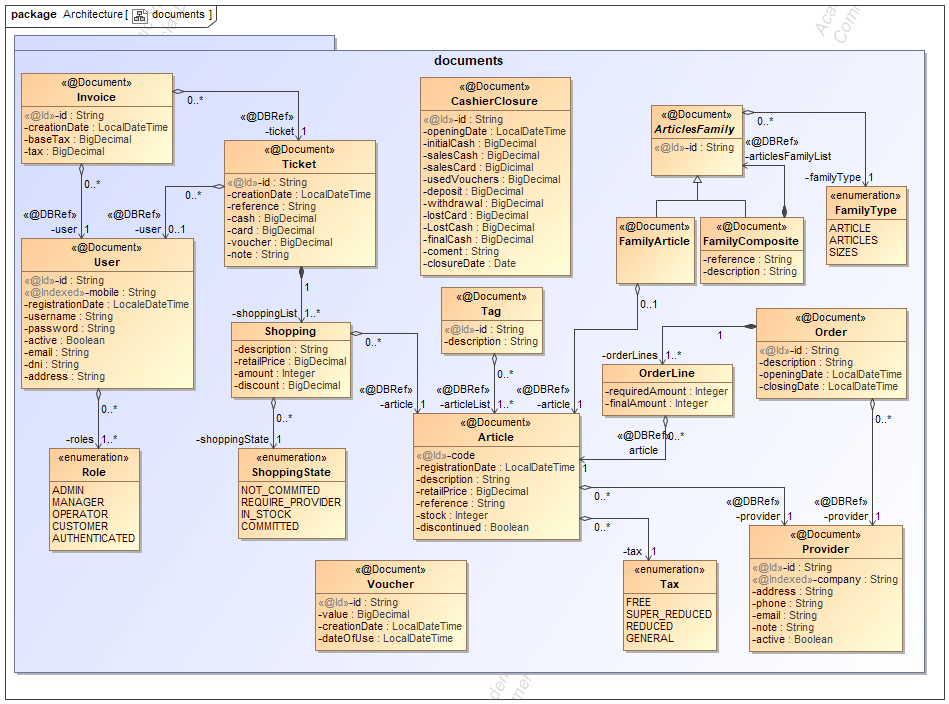
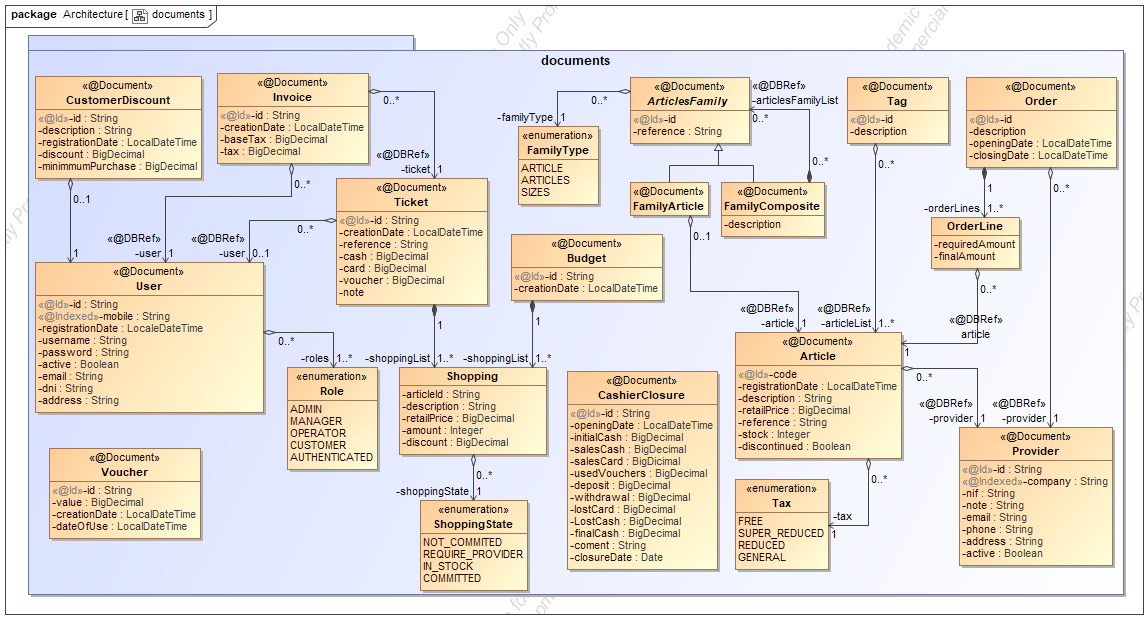
docs

diff --git a/README.md b/README.md
@@ -89,6 +89,10 @@ Existe un rol especial que se obtiene cuando se envía el usuario y contraseña 
 Se realiza un tratamiento de error centralizado.  
 ![](https://github.com/miw-upm/betca-tpv-spring/blob/develop/docs/exceptions.png)
 
+### Documentos
+Documentos.  
+![](https://github.com/miw-upm/betca-tpv-spring/blob/develop/docs/documents.png)
+
 ### DTOs
 Son los objetos de transferencia del API, para recibir los datos (input) y enviar las respuestas (output).
 
